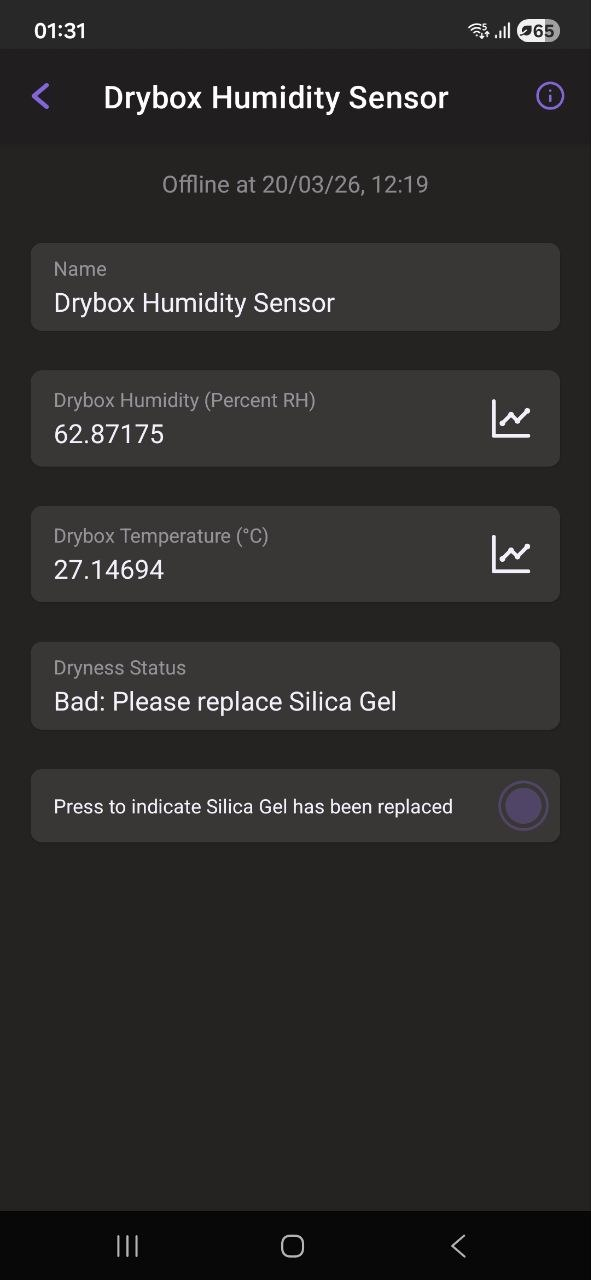
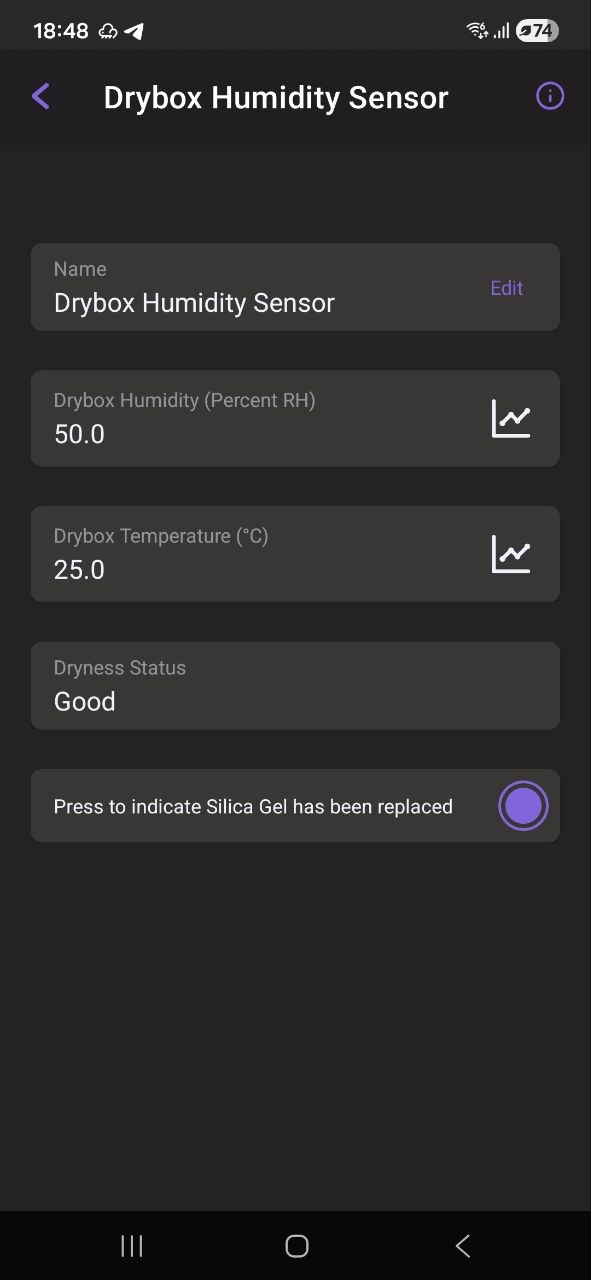
Added correct pictures for documentation

diff --git a/Docs/Hardware.md b/Docs/Hardware.md
@@ -14,10 +14,12 @@ The above dimension drawing shows the shape of the holder that will contain the 
 <img src="Images/Drybox_Circuit.drawio.png" width="50%" height="50%" \>
 </p>
 
-The circuit only comprises of the ESP32C6 and the SHT31 sensor. The devices are connected via an I2C bus, with GPIO pins 5 and 6 acting as SDA and SCL respectively. Any circuit board that can wire the 2 components together can be used, from strip boards to custom designed PCBs. However, the circuit board needs to conform to the dimensions of the device holder, as well as allow the power USB-C cable to connect to the ESP32C6. 
+The circuit only comprises of the ESP32C6 DevkitC-1 and the SHT31 sensor. The devices are connected via an I2C bus, with GPIO pins 5 and 6 acting as SDA and SCL respectively. Any circuit board that can wire the 2 components together can be used, from strip boards to custom designed PCBs. However, the circuit board needs to conform to the dimensions of the device holder, as well as allow the power USB-C cable to connect to the ESP32C6. 
 
 ## Full Assembly
 
-![Device_Assembly](Images)
+<p align="center">
+<img src="Images/Drybox_Sensor_Full_Assembly.jpg" width="50%" height="50%" \>
+</p>
 
-The full assembly is shown above. 
+An example of a full assembly is shown above. 
